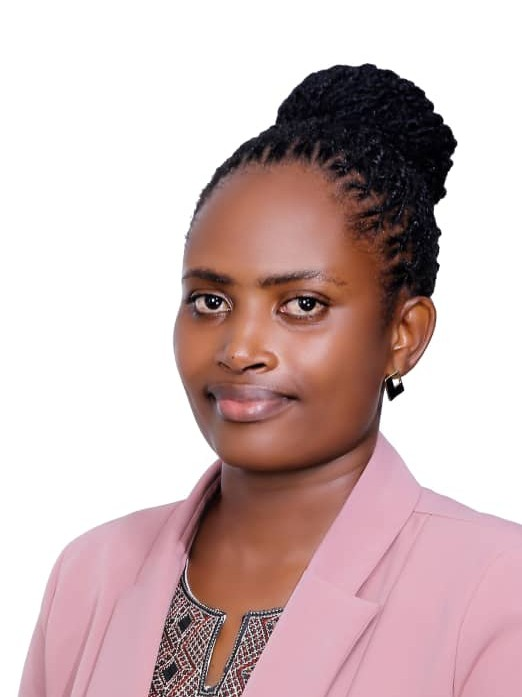
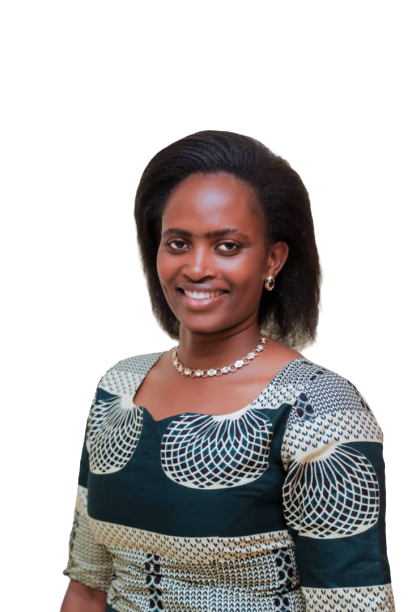
edits

diff --git a/index.htm b/index.htm
@@ -81,36 +81,37 @@
     </div>
   </div>
   
-
-  <div id="vendas-ca">
-    <div class="container">
-      <div class="row">
-        <div class="col-lg-12">
-          <div class="col-lg-6 vendas-ca-txt">
-            <h4>Vision for Rukiga district:</h4>
-            <p>Healthy, economically empowered people with access to clean water, quality education</p>
-          </div>
-          <div class="col-lg-6 vendas-ca-img"> <img class="responsive-img img" src="village.png"> </div>
-        </div>
-      </div>
-    </div>
-  </div>
   
   <div id="respeito-conteudo">
     <div class="container">
       <div class="row">
         <div class="col-lg-12">
           <div class="col-lg-6 respeito-conteudo-txt">
-            <h4><span>Amani Geitu, Entunguka Ya'Rukiga</span></h4>
-            <p>"Access to clean water is important because it affects access to education especially for girls majority of whom have to fetch water before they go to school." </p>
-            <p><b>Fortunate Niwasasira</b><br>Founder </p>
+            <h4><span>MISSION</span></h4>
+            <p>Healthy, economically empowered people with access to clean water and quality education</p>
           </div>
-          <div class="col-lg-6 respeito-conteudo-img"> <img class="responsive-img img" src="fokyi.jpg"> </div>
+          <div class="col-lg-6 respeito-conteudo-img"> <img class="responsive-img img" src="village.png"> </div>
         </div>
       </div>
     </div>
   </div>
 </div>
+
+<div id="vendas-ca">
+  <div class="container">
+    <div class="row">
+      <div class="col-lg-12">
+        <div class="col-lg-6 vendas-ca-txt">
+          <h4>AIM:</h4>
+          <p>"We Will Put Much Emphasis On Youth Capacity Building And Empowerment" </p>
+          <p><b>Fortunate Niwasasira</b><br>Founder </p>
+        </div>
+        <div class="col-lg-6 vendas-ca-img"> <img class="responsive-img img" src="fokyi.jpg"> </div>
+      </div>
+    </div>
+  </div>
+</div>
+
 <div id="indicadores-consultoria">
   <div class="container">
     <div class="row">
